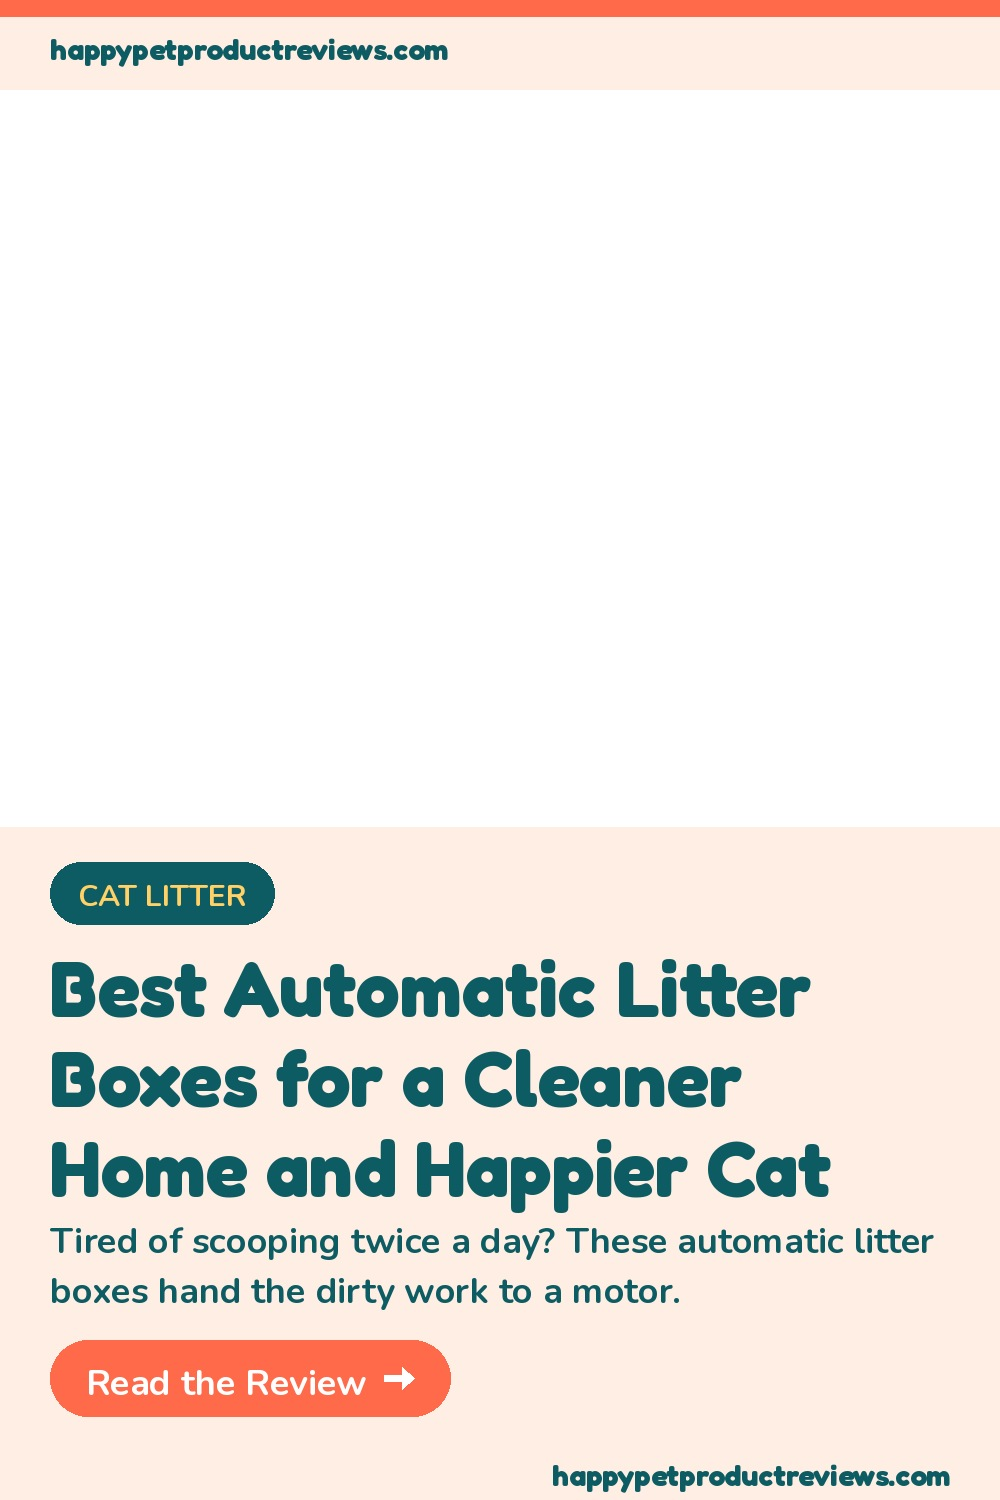
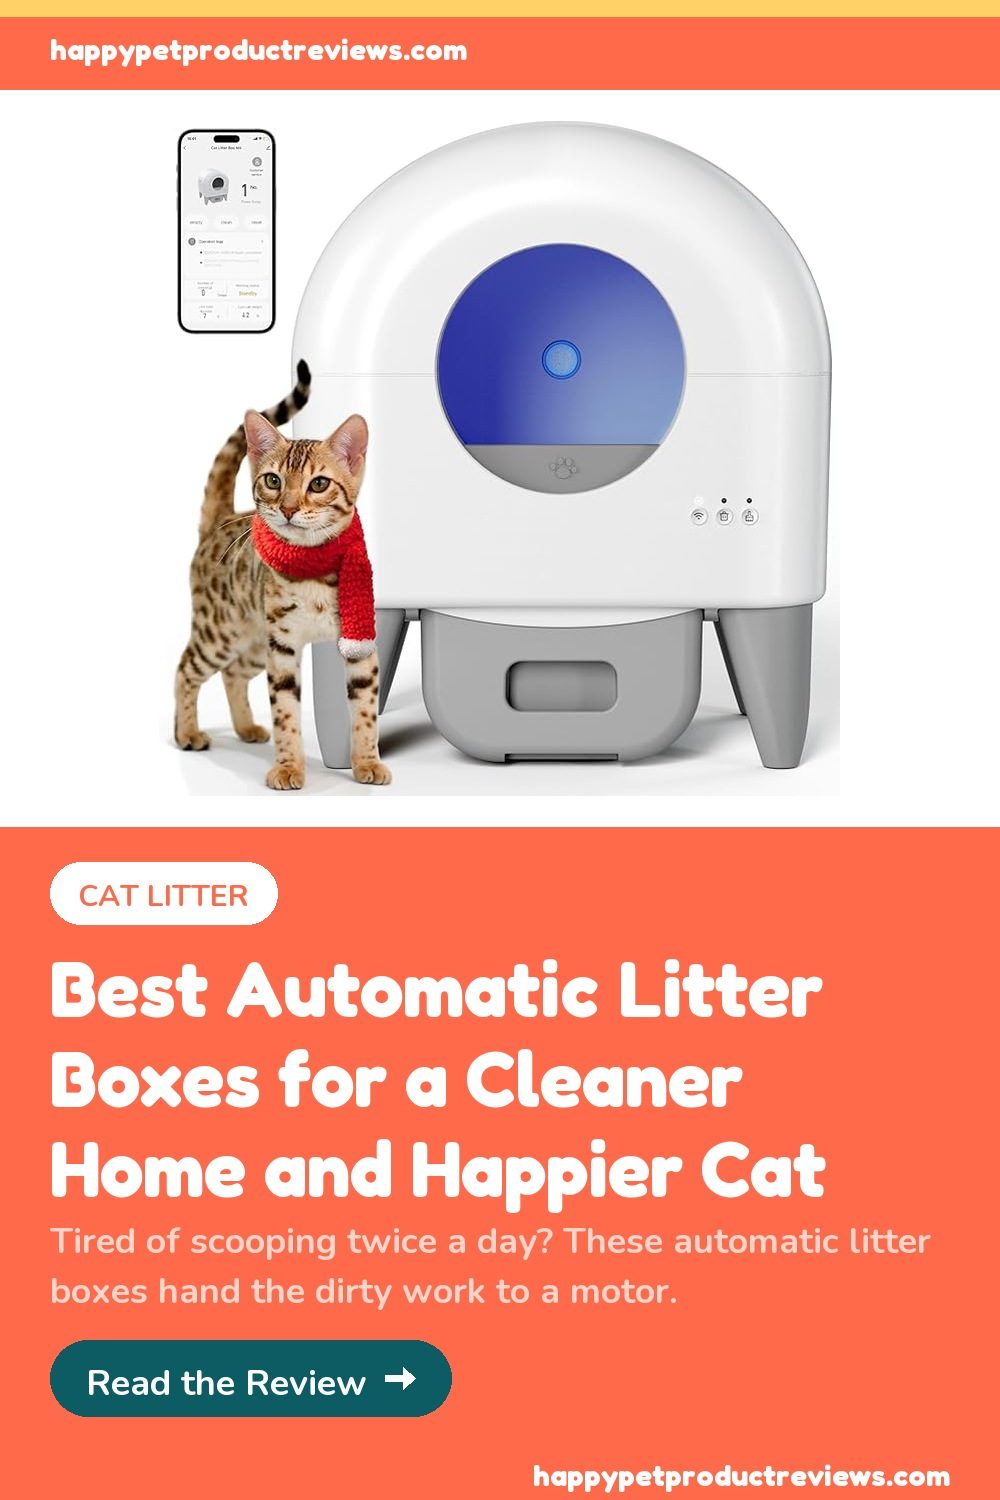
fix(pins): regenerate pin images on the runner + refuse photo-less pins
The Stage-1 routine stages posts in the Claude cloud container, which can't
reach Amazon's image hosts, so fetch_image() returned None and the pin rendered
with a blank product area (best-automatic-litter-box shipped that way).
check_image_has_content only measured bytes (151KB of empty frame), so it passed
and Pinterest displayed the blank pin faithfully.

- publish.yml regenerates each published slug's pin on the GHA runner (reaches
  images-na) via `generate_pin_images.py --slug`, overwriting the cloud's blank
  pin before deploy.
- make_pin now returns whether the product photo was embedded; make_pin_for_post
  gains strict=True (used by --slug) that RAISES if the photo can't be fetched,
  so a blank pin never deploys or gets pinned. Cloud staging stays tolerant
  (strict=False) since Stage 2 regenerates.
- Regenerated best-automatic-litter-box.jpg (now shows the product photo).
- parse_posts() reads posts as utf-8 (Windows cp1252 crashed on em dashes).

+5 guard tests, 200 pass. Pinterest cleanup of the already-posted blank pins is
manual (Director's side).

diff --git a/test_pipeline.py b/test_pipeline.py
@@ -2434,5 +2434,52 @@ class TestAutoMergePublishWiring(unittest.TestCase):
         self.assertIn("test_pipeline.py", ci)
 
 
+class TestPinPhotoGuard(unittest.TestCase):
+    """The cloud container can't reach Amazon image hosts, so a routine-generated
+    pin renders photo-less (blank product area). Pins are regenerated on the GHA
+    runner (where fetch works), and a still-missing photo must fail LOUDLY rather
+    than ship a blank pin (recovery #48)."""
+
+    def setUp(self):
+        import generate_pin_images as g
+        self.g = g
+
+    @patch("generate_pin_images.PIL_AVAILABLE", True)
+    @patch("generate_pin_images.make_pin", return_value=False)
+    def test_strict_raises_when_photo_missing(self, _mk):
+        with self.assertRaises(RuntimeError):
+            self.g.make_pin_for_post("T", "D", "https://x/img.jpg", "cat-litter",
+                                     "slug-x", 0, strict=True)
+
+    @patch("generate_pin_images.PIL_AVAILABLE", True)
+    @patch("generate_pin_images.make_pin", return_value=False)
+    def test_non_strict_tolerates_missing_photo(self, _mk):
+        # The cloud stage stays tolerant (blank is overwritten by the GHA regen).
+        url = self.g.make_pin_for_post("T", "D", "https://x/img.jpg", "cat-litter",
+                                       "slug-x", 0)
+        self.assertIn("slug-x", url)
+
+    @patch("generate_pin_images.PIL_AVAILABLE", True)
+    @patch("generate_pin_images.make_pin", return_value=True)
+    def test_strict_ok_when_photo_present(self, _mk):
+        url = self.g.make_pin_for_post("T", "D", "https://x/img.jpg", "cat-litter",
+                                       "slug-x", 0, strict=True)
+        self.assertIn("slug-x", url)
+
+    def test_make_pin_reports_photo_embedded(self):
+        # make_pin must return whether the product photo was embedded, so callers
+        # (and strict mode) can tell a real pin from a blank one.
+        out = self.g.PINS_DIR / "guard-blank-test.jpg"
+        self.addCleanup(lambda: out.unlink(missing_ok=True))
+        with patch("generate_pin_images.fetch_image", return_value=None):
+            self.assertIs(
+                self.g.make_pin("T", "D", "https://x/i.jpg", "cat-litter",
+                                "guard-blank-test", 0), False)
+
+    def test_publish_regenerates_pins_on_runner(self):
+        pub = (REPO / ".github" / "workflows" / "publish.yml").read_text(encoding="utf-8")
+        self.assertIn("generate_pin_images.py --slug", pub)
+
+
 if __name__ == "__main__":
     unittest.main(verbosity=2)

diff --git a/generate_pin_images.py b/generate_pin_images.py
@@ -237,6 +237,7 @@ def make_pin(title, description, product_img_url, category, slug, theme_idx):
 
     IMG_Y = TOP_BAR
     prod_img = fetch_image(product_img_url) if product_img_url else None
+    photo_embedded = prod_img is not None
     stage_bg = get_stage_bg(prod_img) if prod_img else (255, 255, 255)
     draw.rectangle([0, IMG_Y, W, IMG_Y + IMG_H], fill=stage_bg)
 
@@ -289,13 +290,13 @@ def make_pin(title, description, product_img_url, category, slug, theme_idx):
 
     out_path = PINS_DIR / f'{slug}.jpg'
     img.save(str(out_path), 'JPEG', quality=93)
-    return out_path
+    return photo_embedded  # True if the product photo was fetched + composited
 
 def parse_posts():
     posts = []
     for fname in sorted(os.listdir(POSTS_DIR)):
         if not fname.endswith('.md'): continue
-        text = open(POSTS_DIR / fname).read()
+        text = open(POSTS_DIR / fname, encoding='utf-8').read()
         fm = {}
         m = re.match(r'^---\n(.*?)\n---', text, re.DOTALL)
         if m:
@@ -354,12 +355,22 @@ def update_sheets(posts_with_pins):
             ws.batch_update(updates)
             log_pin(f'{label}: updated {len(updates)} pin URLs')
 
-def make_pin_for_post(title, description, image_url, category, slug, theme_idx):
-    """Called by generate_posts.py. Generates pin image and returns hosted URL."""
+def make_pin_for_post(title, description, image_url, category, slug, theme_idx, strict=False):
+    """Generate the pin image and return its hosted URL.
+
+    Called tolerant (strict=False) by generate_posts.py's staging -- which may run
+    in the Claude cloud container, where Amazon's image hosts are unreachable, so a
+    photo-less pin is acceptable there because Stage 2 regenerates it. Called strict
+    (strict=True) by the --slug CLI on the GHA runner (reachable network): a photo
+    that STILL can't be fetched raises rather than shipping a blank pin."""
     if not PIL_AVAILABLE:
         log_pin('Pillow not available -- skipping pin image generation', 'WARN')
         return f'{SITE_URL}/assets/images/pins/{slug}.jpg'
-    make_pin(title, description, image_url, category, slug, theme_idx)
+    photo_embedded = make_pin(title, description, image_url, category, slug, theme_idx)
+    if strict and not photo_embedded:
+        raise RuntimeError(
+            f'pin for {slug}: product photo could not be fetched from {image_url!r} '
+            f'-- refusing to emit a photo-less pin')
     return f'{SITE_URL}/assets/images/pins/{slug}.jpg'
 
 def main(update_sheets_flag=True):
@@ -386,5 +397,28 @@ def main(update_sheets_flag=True):
     log_pin('Done.')
     return results
 
+def regen_one(slug, strict=True):
+    """Regenerate ONE published post's pin image from its front matter, on a host
+    with a reachable network (the GHA runner). This exists because the cloud routine
+    that first stages the post can't fetch Amazon product images, so its pin renders
+    photo-less; Stage 2 calls this to overwrite it with a real one."""
+    import zlib
+    match = next((p for p in parse_posts() if p['slug'] == slug), None)
+    if match is None:
+        log_pin(f'regen: no published post found for slug {slug!r}', 'ERROR')
+        raise SystemExit(2)
+    theme_idx = zlib.crc32(slug.encode()) % len(THEMES)
+    make_pin_for_post(match['title'], match['description'], match['image'],
+                      match['cat'], slug, theme_idx, strict=strict)
+    log_pin(f'regen: {slug} -> assets/images/pins/{slug}.jpg')
+
+
 if __name__ == '__main__':
-    main()
+    import argparse
+    ap = argparse.ArgumentParser()
+    ap.add_argument('--slug', help='Regenerate one published post pin (strict) and exit')
+    args = ap.parse_args()
+    if args.slug:
+        regen_one(args.slug)
+    else:
+        main()